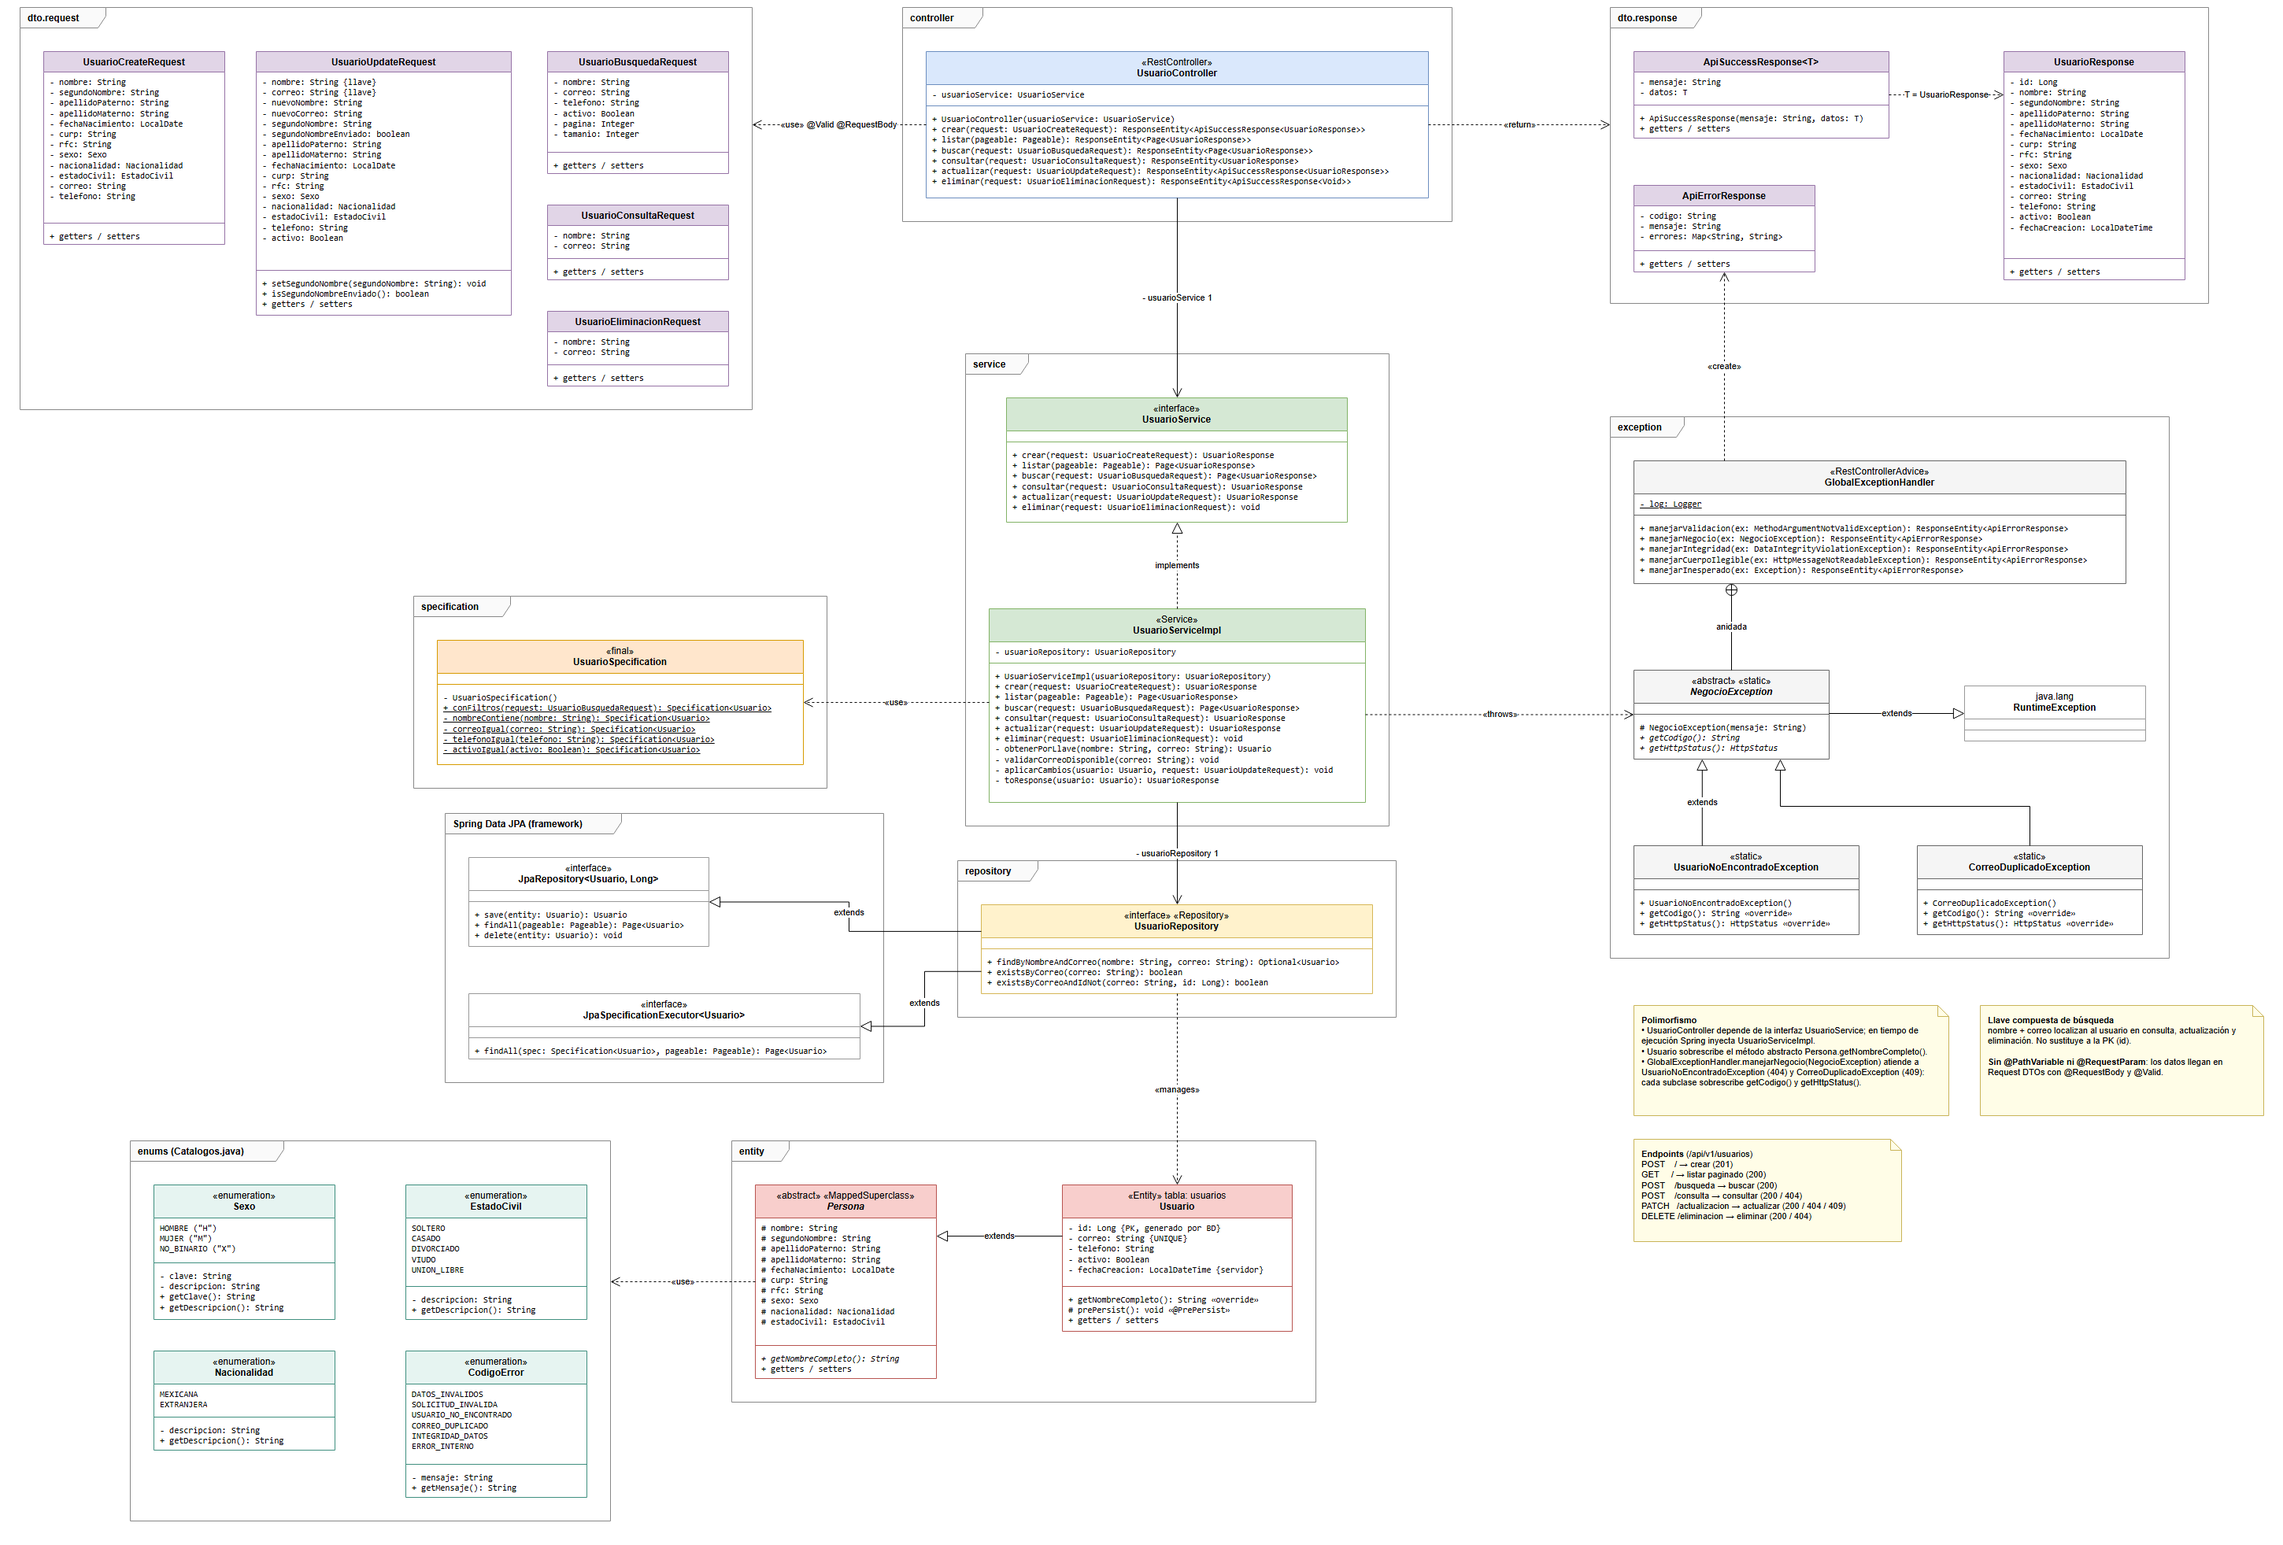
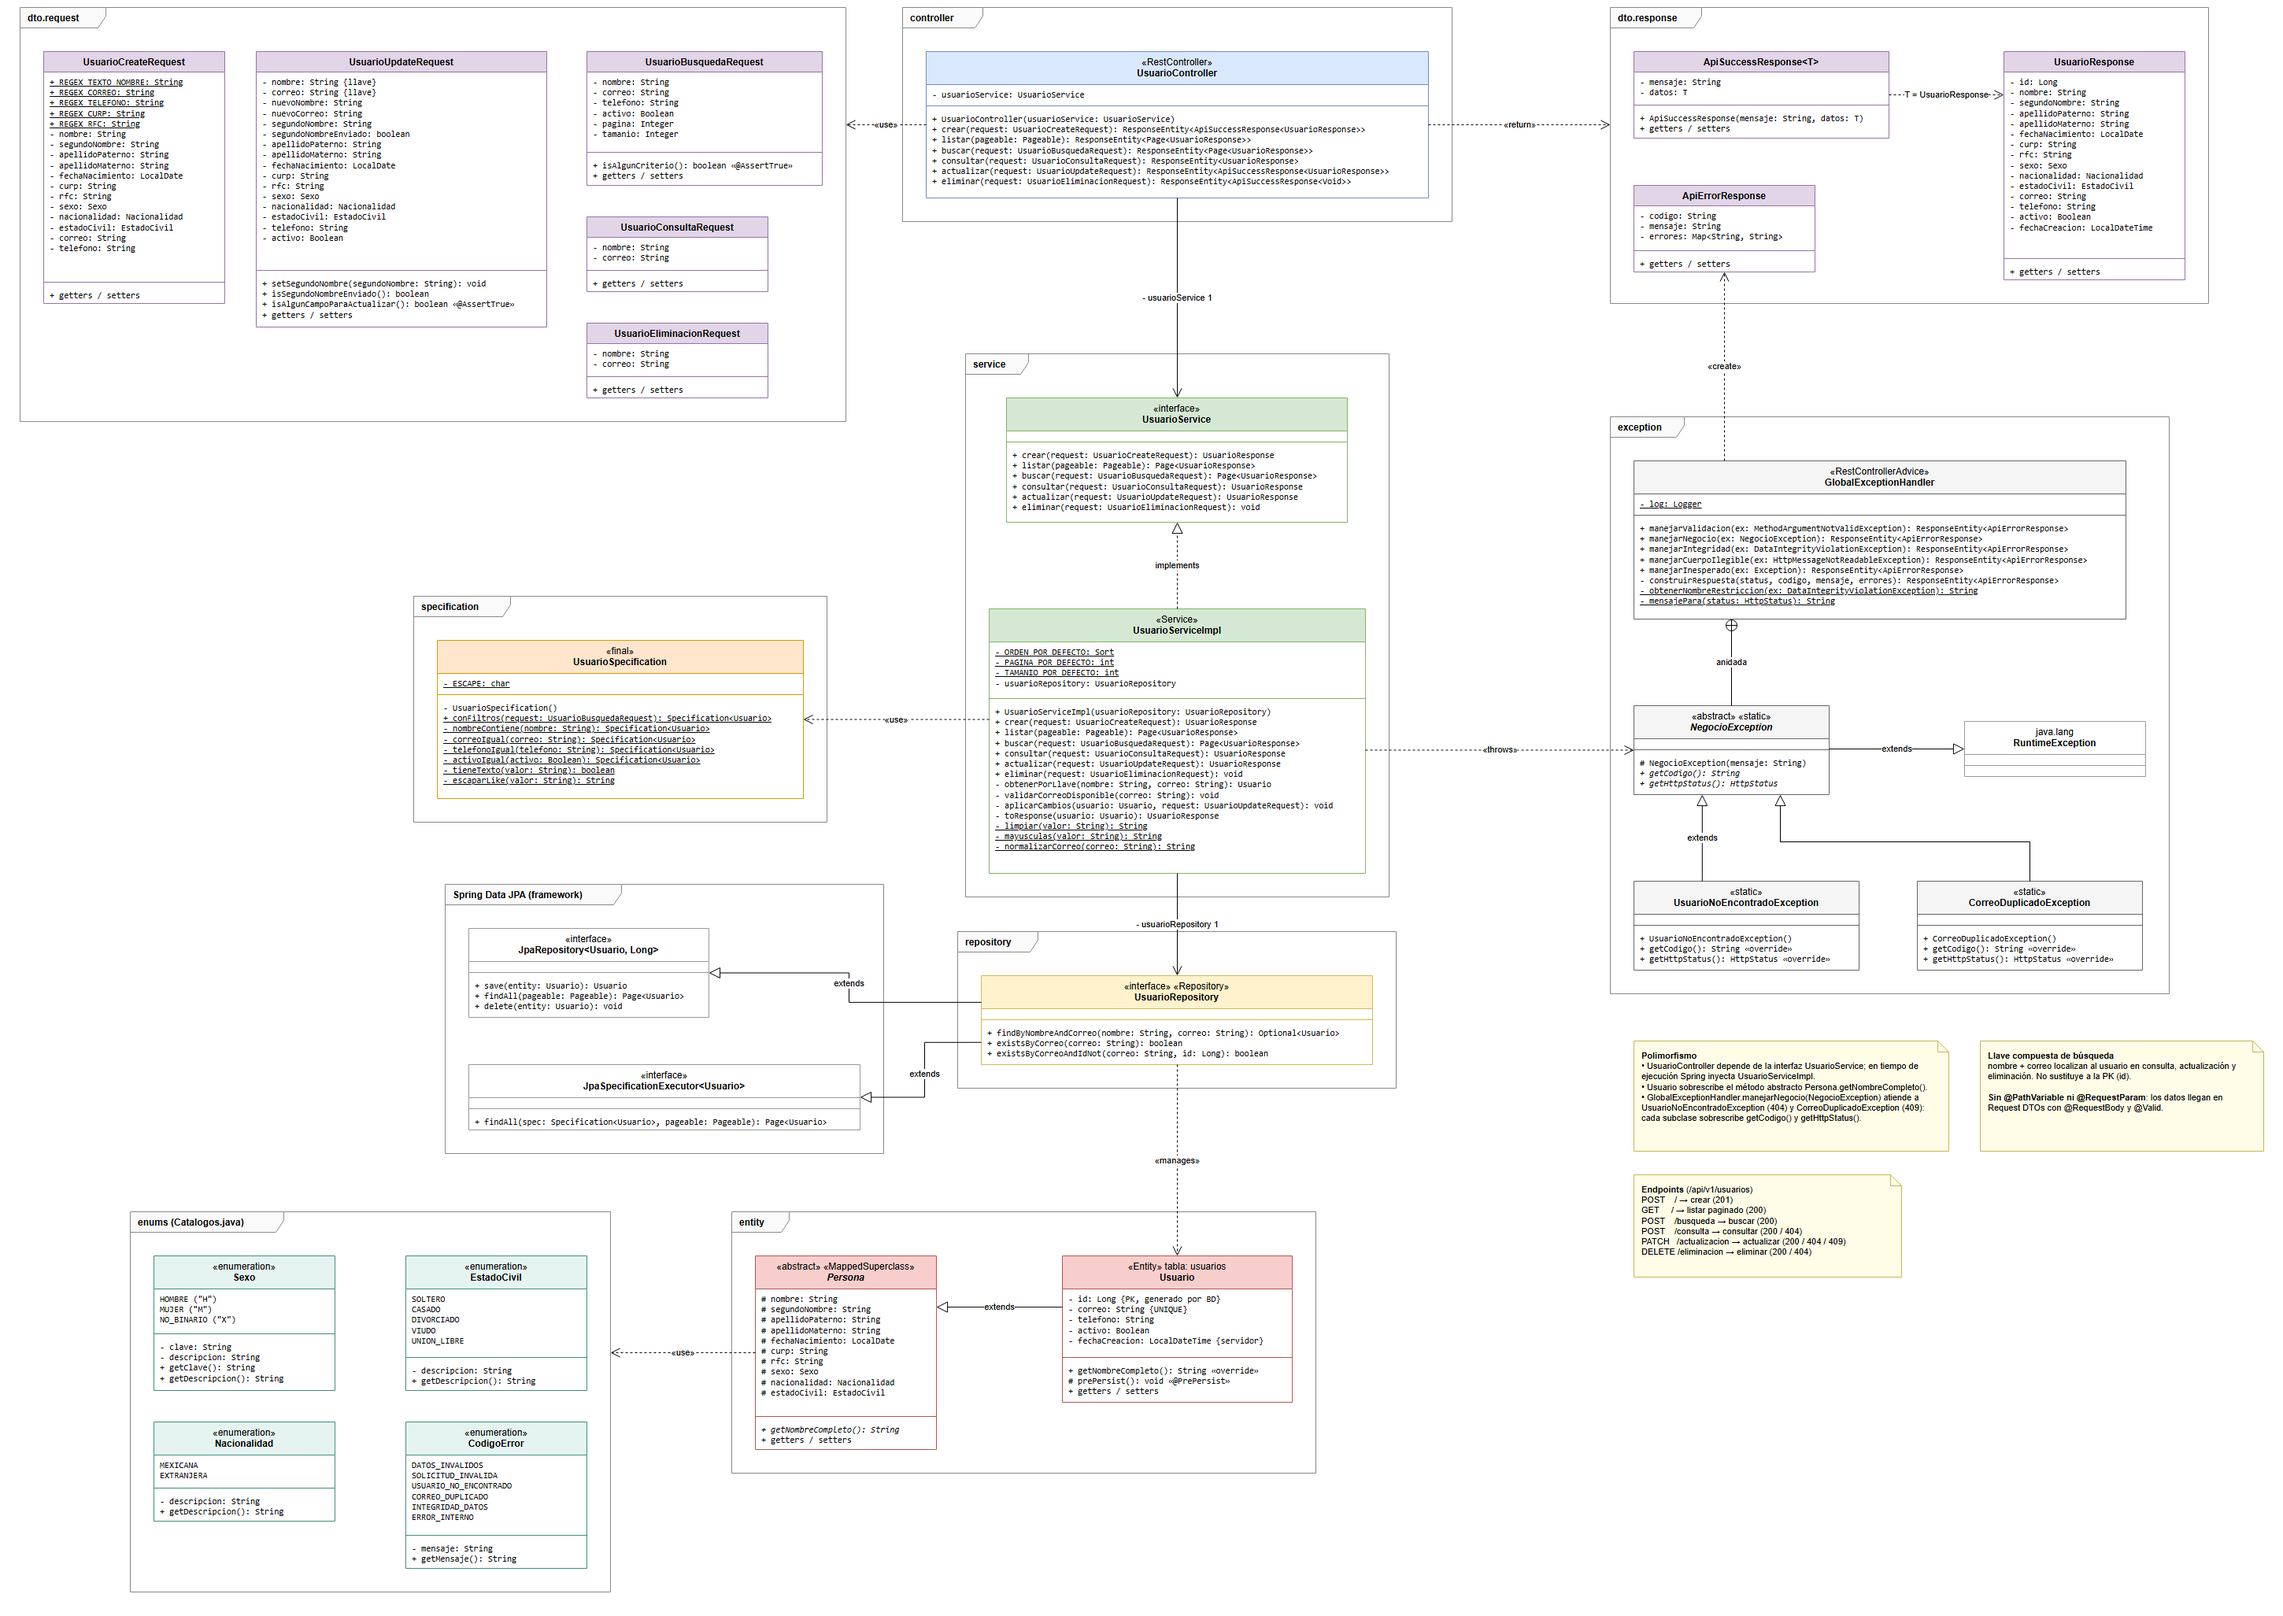
Revision final contra el documento
- Diagrama de clases sincronizado con el codigo: validaciones @AssertTrue,
  constantes de expresiones regulares y metodos auxiliares privados
- Evidencias de pruebas en produccion (Railway + Neon) en
  docs/evidencias-pruebas.md y mencion en el README

diff --git a/docs/evidencias-pruebas.md b/docs/evidencias-pruebas.md
@@ -786,3 +786,341 @@ Respuesta:
 }
 ```
 
+
+---
+
+## Pruebas en producción (Railway + Neon)
+
+Ejecutadas el 2026-10-20 03:50 UTC contra la API desplegada en **https://api-usuarios-production-8bcf.up.railway.app**, con los datos guardados en la base `usuarios_db` de Neon.
+El usuario de prueba se crea al inicio y se elimina al final, así que la tabla queda como estaba.
+
+| # | Caso | Método y ruta | HTTP |
+|---|---|---|---|
+| 1 | Crear usuario | `POST /api/v1/usuarios` | 201 |
+| 2 | Crear con correo duplicado | `POST /api/v1/usuarios` | 409 |
+| 3 | Crear con datos no validos | `POST /api/v1/usuarios` | 400 |
+| 4 | Listar usuarios (paginado) | `GET /api/v1/usuarios` | 200 |
+| 5 | Busqueda dinamica: nombre parcial + activo | `POST /api/v1/usuarios/busqueda` | 200 |
+| 6 | Consultar por nombre + correo | `POST /api/v1/usuarios/consulta` | 200 |
+| 7 | Consultar sin coincidencia | `POST /api/v1/usuarios/consulta` | 404 |
+| 8 | Actualizar telefono y estado civil | `PATCH /api/v1/usuarios/actualizacion` | 200 |
+| 9 | Eliminar por nombre + correo | `DELETE /api/v1/usuarios/eliminacion` | 200 |
+| 10 | Eliminar usuario ya eliminado | `DELETE /api/v1/usuarios/eliminacion` | 404 |
+
+### P1. Crear usuario
+
+`POST /api/v1/usuarios` → **HTTP 201**
+
+Solicitud:
+```json
+{
+  "nombre": "Ana",
+  "segundoNombre": "Sofia",
+  "apellidoPaterno": "Torres",
+  "apellidoMaterno": "Vega",
+  "fechaNacimiento": "1998-04-12",
+  "curp": "TOVA980412MGTRGN03",
+  "rfc": "TOVA980412KL5",
+  "sexo": "MUJER",
+  "nacionalidad": "MEXICANA",
+  "estadoCivil": "SOLTERO",
+  "correo": "ana.torres@correo.com",
+  "telefono": "4775551234"
+}
+```
+
+Respuesta:
+```json
+{
+  "mensaje": "Usuario registrado correctamente.",
+  "datos": {
+    "id": 2,
+    "nombre": "Ana",
+    "segundoNombre": "Sofia",
+    "apellidoPaterno": "Torres",
+    "apellidoMaterno": "Vega",
+    "fechaNacimiento": "1998-04-12",
+    "curp": "TOVA980412MGTRGN03",
+    "rfc": "TOVA980412KL5",
+    "sexo": "MUJER",
+    "nacionalidad": "MEXICANA",
+    "estadoCivil": "SOLTERO",
+    "correo": "ana.torres@correo.com",
+    "telefono": "4775551234",
+    "activo": true,
+    "fechaCreacion": "2026-10-20T03:50:47"
+  }
+}
+```
+
+### P2. Crear con correo duplicado
+
+`POST /api/v1/usuarios` → **HTTP 409**
+
+Solicitud:
+```json
+{
+  "nombre": "Ana",
+  "segundoNombre": "Sofia",
+  "apellidoPaterno": "Torres",
+  "apellidoMaterno": "Vega",
+  "fechaNacimiento": "1998-04-12",
+  "curp": "TOVA980412MGTRGN04",
+  "rfc": "TOVA980412KL6",
+  "sexo": "MUJER",
+  "nacionalidad": "MEXICANA",
+  "estadoCivil": "SOLTERO",
+  "correo": "ana.torres@correo.com",
+  "telefono": "4775551234"
+}
+```
+
+Respuesta:
+```json
+{
+  "codigo": "CORREO_DUPLICADO",
+  "mensaje": "El correo ya se encuentra registrado. Intente con otro correo."
+}
+```
+
+### P3. Crear con datos no validos
+
+`POST /api/v1/usuarios` → **HTTP 400**
+
+Solicitud:
+```json
+{
+  "nombre": "  ",
+  "correo": "sin-arroba",
+  "telefono": "123"
+}
+```
+
+Respuesta:
+```json
+{
+  "codigo": "DATOS_INVALIDOS",
+  "mensaje": "Verifique la información capturada e intente nuevamente.",
+  "errores": {
+    "nacionalidad": "La nacionalidad es obligatoria.",
+    "nombre": "El nombre es obligatorio y no puede contener solo espacios.",
+    "fechaNacimiento": "La fecha de nacimiento es obligatoria.",
+    "telefono": "El teléfono debe contener exactamente 10 dígitos.",
+    "rfc": "El RFC es obligatorio.",
+    "curp": "La CURP es obligatoria.",
+    "correo": "El correo electrónico no tiene un formato válido.",
+    "apellidoMaterno": "El apellido materno es obligatorio y no puede contener solo espacios.",
+    "apellidoPaterno": "El apellido paterno es obligatorio y no puede contener solo espacios.",
+    "estadoCivil": "El estado civil es obligatorio.",
+    "sexo": "El sexo es obligatorio."
+  }
+}
+```
+
+### P4. Listar usuarios (paginado)
+
+`GET /api/v1/usuarios` → **HTTP 200**
+
+Respuesta:
+```json
+{
+  "content": [
+    {
+      "id": 2,
+      "nombre": "Ana",
+      "segundoNombre": "Sofia",
+      "apellidoPaterno": "Torres",
+      "apellidoMaterno": "Vega",
+      "fechaNacimiento": "1998-04-12",
+      "curp": "TOVA980412MGTRGN03",
+      "rfc": "TOVA980412KL5",
+      "sexo": "MUJER",
+      "nacionalidad": "MEXICANA",
+      "estadoCivil": "SOLTERO",
+      "correo": "ana.torres@correo.com",
+      "telefono": "4775551234",
+      "activo": true,
+      "fechaCreacion": "2026-10-20T03:50:47"
+    }
+  ],
+  "page": {
+    "size": 10,
+    "number": 0,
+    "totalElements": 1,
+    "totalPages": 1
+  }
+}
+```
+
+### P5. Busqueda dinamica: nombre parcial + activo
+
+`POST /api/v1/usuarios/busqueda` → **HTTP 200**
+
+Solicitud:
+```json
+{
+  "nombre": "an",
+  "activo": true
+}
+```
+
+Respuesta:
+```json
+{
+  "content": [
+    {
+      "id": 2,
+      "nombre": "Ana",
+      "segundoNombre": "Sofia",
+      "apellidoPaterno": "Torres",
+      "apellidoMaterno": "Vega",
+      "fechaNacimiento": "1998-04-12",
+      "curp": "TOVA980412MGTRGN03",
+      "rfc": "TOVA980412KL5",
+      "sexo": "MUJER",
+      "nacionalidad": "MEXICANA",
+      "estadoCivil": "SOLTERO",
+      "correo": "ana.torres@correo.com",
+      "telefono": "4775551234",
+      "activo": true,
+      "fechaCreacion": "2026-10-20T03:50:47"
+    }
+  ],
+  "page": {
+    "size": 10,
+    "number": 0,
+    "totalElements": 1,
+    "totalPages": 1
+  }
+}
+```
+
+### P6. Consultar por nombre + correo
+
+`POST /api/v1/usuarios/consulta` → **HTTP 200**
+
+Solicitud:
+```json
+{
+  "nombre": "Ana",
+  "correo": "ana.torres@correo.com"
+}
+```
+
+Respuesta:
+```json
+{
+  "id": 2,
+  "nombre": "Ana",
+  "segundoNombre": "Sofia",
+  "apellidoPaterno": "Torres",
+  "apellidoMaterno": "Vega",
+  "fechaNacimiento": "1998-04-12",
+  "curp": "TOVA980412MGTRGN03",
+  "rfc": "TOVA980412KL5",
+  "sexo": "MUJER",
+  "nacionalidad": "MEXICANA",
+  "estadoCivil": "SOLTERO",
+  "correo": "ana.torres@correo.com",
+  "telefono": "4775551234",
+  "activo": true,
+  "fechaCreacion": "2026-10-20T03:50:47"
+}
+```
+
+### P7. Consultar sin coincidencia
+
+`POST /api/v1/usuarios/consulta` → **HTTP 404**
+
+Solicitud:
+```json
+{
+  "nombre": "Otra",
+  "correo": "ana.torres@correo.com"
+}
+```
+
+Respuesta:
+```json
+{
+  "codigo": "USUARIO_NO_ENCONTRADO",
+  "mensaje": "No existe un usuario con el nombre y correo electrónico proporcionados."
+}
+```
+
+### P8. Actualizar telefono y estado civil
+
+`PATCH /api/v1/usuarios/actualizacion` → **HTTP 200**
+
+Solicitud:
+```json
+{
+  "nombre": "Ana",
+  "correo": "ana.torres@correo.com",
+  "telefono": "4775559876",
+  "estadoCivil": "CASADO"
+}
+```
+
+Respuesta:
+```json
+{
+  "mensaje": "Usuario actualizado correctamente.",
+  "datos": {
+    "id": 2,
+    "nombre": "Ana",
+    "segundoNombre": "Sofia",
+    "apellidoPaterno": "Torres",
+    "apellidoMaterno": "Vega",
+    "fechaNacimiento": "1998-04-12",
+    "curp": "TOVA980412MGTRGN03",
+    "rfc": "TOVA980412KL5",
+    "sexo": "MUJER",
+    "nacionalidad": "MEXICANA",
+    "estadoCivil": "CASADO",
+    "correo": "ana.torres@correo.com",
+    "telefono": "4775559876",
+    "activo": true,
+    "fechaCreacion": "2026-10-20T03:50:47"
+  }
+}
+```
+
+### P9. Eliminar por nombre + correo
+
+`DELETE /api/v1/usuarios/eliminacion` → **HTTP 200**
+
+Solicitud:
+```json
+{
+  "nombre": "Ana",
+  "correo": "ana.torres@correo.com"
+}
+```
+
+Respuesta:
+```json
+{
+  "mensaje": "Usuario eliminado correctamente."
+}
+```
+
+### P10. Eliminar usuario ya eliminado
+
+`DELETE /api/v1/usuarios/eliminacion` → **HTTP 404**
+
+Solicitud:
+```json
+{
+  "nombre": "Ana",
+  "correo": "ana.torres@correo.com"
+}
+```
+
+Respuesta:
+```json
+{
+  "codigo": "USUARIO_NO_ENCONTRADO",
+  "mensaje": "No existe un usuario con el nombre y correo electrónico proporcionados."
+}
+```

diff --git a/README.md b/README.md
@@ -333,6 +333,8 @@ Ejecución de `mvn test`: **32 pruebas, 0 fallas**.
 
 Las solicitudes y respuestas reales de los 25 escenarios (casos exitosos, validaciones, 404, 409, JSON mal formado, ruta inexistente y método no permitido) están en **[`docs/evidencias-pruebas.md`](docs/evidencias-pruebas.md)**.
 
+El mismo archivo incluye las **pruebas en producción**: 10 casos (alta, duplicado, validación, listado, búsqueda, consulta, 404, modificación y baja) ejecutados contra la API desplegada en Railway, con los datos guardados en Neon.
+
 ---
 
 ## 9. Diagrama de clases
